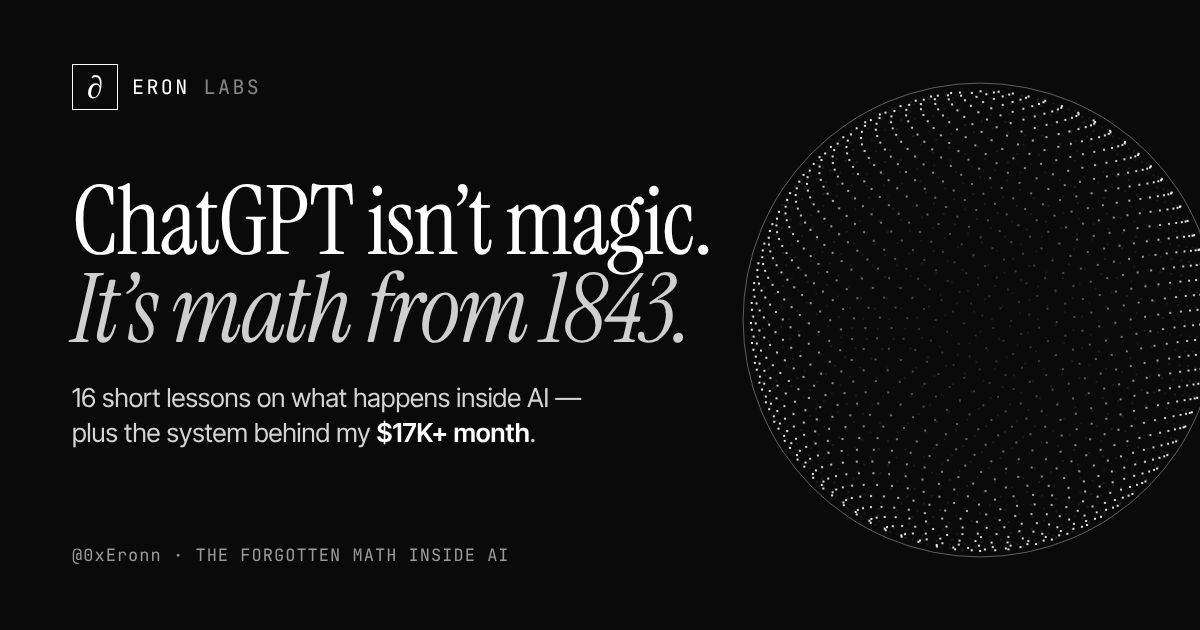
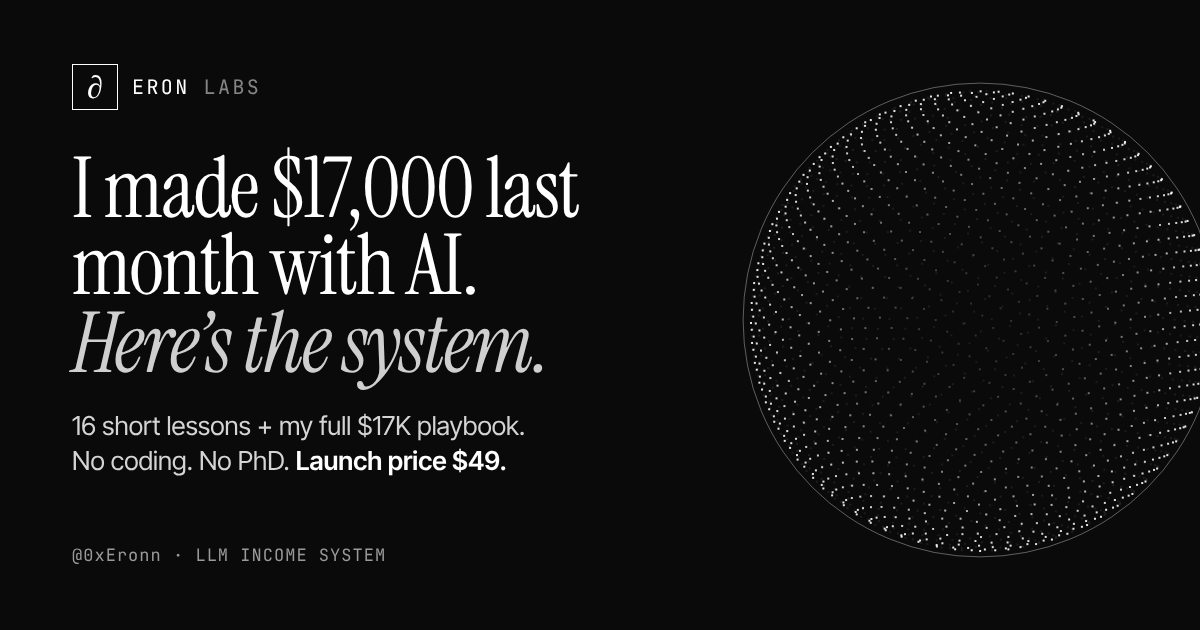
Conversion-first hero: plan picker above the fold, $17K headline, urgency, sticky buy bar
Claude-Session: https://claude.ai/code/session_01UxjCTe6HjTJ15kGubGNQJT

Changed region(s): [[0.0617, 0.2413, 0.5858, 0.754], [0.1542, 0.8746, 0.4317, 0.9048]]

diff --git a/index.html b/index.html
@@ -3,22 +3,22 @@
 <head>
 <meta charset="utf-8">
 <meta name="viewport" content="width=device-width, initial-scale=1">
-<title>Eron Labs — The Forgotten Math Inside AI</title>
+<title>Eron Labs — I made $17K last month with AI. Here’s the system.</title>
 <meta name="description" content="ChatGPT isn't magic. It's math from 1843. 16 short stories about what happens inside AI, plus the system that made me $17K+ last month.">
 <link rel="icon" href="/favicon.svg" type="image/svg+xml">
 <meta name="theme-color" content="#0A0A0A">
 <meta property="og:type" content="website">
 <meta property="og:site_name" content="Eron Labs">
-<meta property="og:title" content="Eron Labs — ChatGPT isn’t magic. It’s math from 1843.">
-<meta property="og:description" content="16 short lessons on what happens inside AI, plus the system behind my $17K+ month.">
+<meta property="og:title" content="I made $17,000 last month with AI. Here’s the exact system.">
+<meta property="og:description" content="16 short lessons + my full $17K playbook. No coding, no PhD. Launch price: $49.">
 <meta property="og:image" content="/og.png">
 <meta property="og:image:width" content="1200">
 <meta property="og:image:height" content="630">
 <meta name="twitter:card" content="summary_large_image">
 <meta name="twitter:site" content="@0xEronn">
 <meta name="twitter:creator" content="@0xEronn">
-<meta name="twitter:title" content="Eron Labs — ChatGPT isn’t magic. It’s math from 1843.">
-<meta name="twitter:description" content="16 short lessons on what happens inside AI, plus the system behind my $17K+ month.">
+<meta name="twitter:title" content="I made $17,000 last month with AI. Here’s the exact system.">
+<meta name="twitter:description" content="16 short lessons + my full $17K playbook. No coding, no PhD. Launch price: $49.">
 <meta name="twitter:image" content="/og.png">
 <link rel="preconnect" href="https://fonts.googleapis.com">
 <link rel="preconnect" href="https://fonts.gstatic.com" crossorigin>
@@ -299,10 +299,87 @@ section{position:relative}
 
 .wordmark{font-family:var(--serif);font-size:clamp(72px,17vw,260px);line-height:.8;letter-spacing:-.03em;text-align:center;padding:60px 0 20px;color:#1E1E1E;overflow:hidden;white-space:nowrap}
 footer{background:var(--ink);color:var(--mute-d);border-top:1px solid var(--line-d)}
+footer{padding-bottom:72px}
 footer .wrap{display:flex;justify-content:space-between;gap:16px;flex-wrap:wrap;padding-top:28px;padding-bottom:28px;font-size:14px}
 footer .wrap div{display:flex;gap:22px}
 footer a{color:var(--paper)}
 
+
+:root{--red:#E5484D}
+.red-t{color:var(--red)}
+.promo .tag{background:var(--red);color:#fff}
+.hero{padding:56px 0 0}
+.hero-grid{position:relative;z-index:2;display:grid;grid-template-columns:minmax(0,1.08fr) minmax(0,.92fr);gap:56px;align-items:start;padding-bottom:56px}
+.hero-copy{display:flex;flex-direction:column;gap:20px;align-items:flex-start}
+.hero h1{font-size:clamp(46px,5.6vw,80px);line-height:.98;max-width:none}
+.hero .lead{max-width:560px}
+.trust{list-style:none;margin:6px 0 0;padding:0;display:flex;flex-direction:column;gap:12px}
+.trust li{display:flex;gap:12px;align-items:flex-start;font-size:15px;line-height:1.5;color:#BDBDBD}
+.trust li b{color:#fff;font-weight:600}
+.trust .ic{width:26px;height:26px;flex:none;border:1px solid #333;border-radius:6px;display:grid;place-items:center;color:#fff}
+.trust .ic svg{width:14px;height:14px}
+.trust .ic.red{border-color:rgba(229,72,77,.5);background:rgba(229,72,77,.12);color:var(--red)}
+.stars{display:flex;gap:10px;align-items:center;font-size:14px;color:#BDBDBD;flex-wrap:wrap}
+.stars .st{color:#fff;letter-spacing:2px}
+.stars a{color:#fff;text-underline-offset:3px}
+.stars .sep{color:#555}
+.plancard{background:#fff;color:#0A0A0A;border-radius:18px;padding:24px;display:flex;flex-direction:column;gap:14px;box-shadow:0 40px 100px rgba(0,0,0,.55);position:sticky;top:88px}
+.pc-head{display:flex;justify-content:space-between;align-items:center;gap:12px;flex-wrap:wrap}
+.pc-head b{font-size:20px}
+.pill-red{font-family:var(--mono);font-size:11px;letter-spacing:.08em;color:var(--red);background:rgba(229,72,77,.1);border:1px solid rgba(229,72,77,.35);padding:5px 10px;border-radius:999px;white-space:nowrap}
+.pc-list{display:flex;flex-direction:column;gap:10px}
+.pc-opt{display:flex;gap:14px;align-items:center;width:100%;text-align:left;padding:14px 16px;border:1px solid #DADADA;border-radius:12px;background:#fff;cursor:pointer;transition:border-color .15s,background .15s}
+.pc-opt:hover{border-color:#0A0A0A}
+.pc-opt[aria-checked="true"]{border:2px solid #0A0A0A;padding:13px 15px;background:#F6F6F4}
+.pc-dot{width:18px;height:18px;border-radius:50%;border:2px solid #0A0A0A;flex:none;display:grid;place-items:center}
+.pc-opt[aria-checked="true"] .pc-dot:after{content:"";width:8px;height:8px;border-radius:50%;background:#0A0A0A}
+.pc-txt{flex:1;display:flex;flex-direction:column;gap:3px;min-width:0}
+.pc-txt b{font-size:16px;display:flex;gap:8px;align-items:center;flex-wrap:wrap}
+.pc-txt small{font-size:13px;color:#5C5C5C;line-height:1.4}
+.pc-badge{font-family:var(--mono);font-size:10.5px;letter-spacing:.08em;background:#0A0A0A;color:#fff;padding:2px 7px;border-radius:4px;font-weight:500}
+.pc-pr{display:flex;flex-direction:column;align-items:flex-end;flex:none;line-height:1.1}
+.pc-pr b{font-family:var(--serif);font-weight:400;font-size:32px}
+.pc-pr s{font-size:13px;color:#8A8A8A}
+.pc-cta{display:flex;justify-content:center;align-items:center;min-height:58px;background:#0A0A0A;color:#fff;text-decoration:none;font-weight:600;font-size:17px;border-radius:12px;transition:transform .15s}
+.pc-cta:hover{transform:translateY(-2px)}
+.pc-note{margin:0;text-align:center;font-size:13.5px;color:#5C5C5C}
+.pc-note b{color:#0A0A0A}
+.pc-promo{display:flex;justify-content:space-between;align-items:center;gap:10px;border:1px dashed #9A9A9A;border-radius:10px;padding:10px 14px;text-decoration:none;color:#5C5C5C;font-size:13px}
+.pc-promo:hover{border-color:#0A0A0A;color:#0A0A0A}
+.pc-promo b{font-family:var(--mono);color:#0A0A0A;letter-spacing:.08em}
+.pc-secure{display:flex;gap:8px;align-items:center;justify-content:center;font-size:12px;color:#7A7A7A}
+.wall .stage{margin-top:0}
+.sticky{position:fixed;left:0;right:0;bottom:0;z-index:60;background:rgba(10,10,10,.92);backdrop-filter:blur(12px);-webkit-backdrop-filter:blur(12px);color:#fff;border-top:1px solid #262626;transform:translateY(110%);transition:transform .3s ease}
+.sticky.on{transform:none}
+.sticky .wrap{display:flex;justify-content:space-between;align-items:center;gap:16px;padding-top:12px;padding-bottom:12px}
+.sk-l{display:flex;flex-direction:column;gap:2px;font-size:13.5px;color:#BDBDBD}
+.sk-l>b{color:#fff;font-size:15px}
+.sk-p{color:#fff;font-size:15px}
+.sk-btn{background:#fff;color:#0A0A0A;text-decoration:none;font-weight:600;padding:0 20px;min-height:46px;display:flex;align-items:center;border-radius:10px;flex:none}
+@media (max-width:980px){
+  .hero-grid{display:flex;flex-direction:column;align-items:stretch;gap:18px}
+  .hero-copy{display:contents}
+  .hero-copy>.chip{order:1;align-self:flex-start}
+  .hero-copy>.eyebrow{order:2}
+  .hero-copy>h1{order:3}
+  .hero-copy>.lead{order:4}
+  .plancard{order:5;position:static;margin:6px 0}
+  .hero-copy>.btns{display:none}
+  .hero-copy>.trust{order:6}
+  .hero-copy>.stars{order:7}
+  .promo .wrap>span:last-child{display:none}
+}
+@media (max-width:640px){
+  .hero{padding-top:24px}
+  .hero h1{font-size:40px}
+  .hero .lead{font-size:16px}
+  .hero-copy>.chip{display:none}
+  .plancard{padding:18px;border-radius:14px}
+  .pc-opt{padding:12px}
+  .pc-opt[aria-checked="true"]{padding:11px}
+  .pc-pr b{font-size:26px}
+  .sk-l>b{display:none}
+}
 /* reveal */
 .rv{opacity:0;transform:translateY(24px);transition:opacity .8s ease, transform .8s ease}
 .rv.in{opacity:1;transform:none}
@@ -340,8 +417,8 @@ footer a{color:var(--paper)}
 
 <div class="promo">
   <div class="wrap">
-    <span class="tag">ERON LABS · LAUNCH WEEK</span>
-    <span>Full Stack <b>−75%</b> + the $17K playbook · ends in <b class="js-cd">--d --h --m --s</b></span>
+    <span class="tag">LAUNCH PRICE · −75%</span>
+    <span>Full Stack + the $17K playbook for <b>$49</b> <s>$198</s> · price rises in <b class="js-cd red-t">--d --h --m --s</b></span>
     <span>Code <b>ERON10</b> = extra −10% for X followers</span>
   </div>
 </div>
@@ -358,7 +435,7 @@ footer a{color:var(--paper)}
     </div>
     <div class="cta">
       <span class="price mono" style="font-size:13px">From $19 <s style="color:#8A8A8A">$39</s></span>
-      <a class="btn btn-solid" href="#pricing" style="background:#fff;color:#0A0A0A;border-color:#fff">Get access</a>
+      <a class="btn btn-solid" href="#plans" style="background:#fff;color:#0A0A0A;border-color:#fff">Get access</a>
     </div>
   </div>
 </nav>
@@ -366,26 +443,36 @@ footer a{color:var(--paper)}
 <!-- HERO -->
 <section class="hero" id="top">
   <div class="grain"></div>
-  <div class="glow"></div>
-  <div class="wrap hero-top">
-    <a class="chip" href="https://x.com/0xEronn" target="_blank" rel="noopener">
-      <img class="js-avatar" alt="" width="26" height="26">
-      <span>By <b style="color:#fff">Eron</b> · @0xEronn · <b style="color:#fff">$17K+</b> earned last month</span>
-    </a>
-    <h1>ChatGPT isn’t magic.<br><i>It’s math from 1843.</i></h1>
-    <p class="lead">16 short stories that show you what actually happens inside AI — in plain English. Plus the exact system that made me <b style="color:#fff">$17,000+ last month</b> with this knowledge.</p>
-    <div class="btns">
-      <a class="btn btn-solid" href="#pricing" style="background:#fff;color:#0A0A0A;border-color:#fff">Get instant access
-        <svg width="18" height="18" viewBox="0 0 24 24" fill="none" stroke="currentColor" stroke-width="2" aria-hidden="true"><path d="M5 12h14M13 6l6 6-6 6"/></svg></a>
-      <a class="btn btn-ghost" href="#free">Try a lesson free</a>
+  <div class="wrap hero-grid">
+    <div class="hero-copy">
+      <a class="chip" href="https://x.com/0xEronn" target="_blank" rel="noopener">
+        <img class="js-avatar" alt="" width="26" height="26">
+        <span>By <b style="color:#fff">Eron</b> · @0xEronn · 11K followers</span>
+      </a>
+      <span class="eyebrow">LLM income system · no coding · no PhD</span>
+      <h1>I made $17,000 last month with AI. <i>Here’s the exact system.</i></h1>
+      <p class="lead">16 short lessons that take you from “I use ChatGPT” to “I get paid for AI” — plus my full $17K playbook: the content, the clients, the numbers. Start tonight.</p>
+      <div class="btns">
+        <a class="btn btn-solid" href="https://buy.stripe.com/00wbIUdP58QO7XOc1a7AI04" rel="noopener" style="background:#fff;color:#0A0A0A;border-color:#fff">Get instant access
+          <svg width="18" height="18" viewBox="0 0 24 24" fill="none" stroke="currentColor" stroke-width="2" aria-hidden="true"><path d="M5 12h14M13 6l6 6-6 6"/></svg></a>
+        <a class="btn btn-ghost" href="#how">See what’s inside</a>
+      </div>
+      <ul class="trust">
+        <li><span class="ic"><svg viewBox="0 0 24 24" fill="none" stroke="currentColor" stroke-width="2" aria-hidden="true"><path d="M4 12l5 5L20 6"/></svg></span><span><b>Money back, any time in 30 days.</b> One message, full refund, no questions.</span></li>
+        <li><span class="ic"><svg viewBox="0 0 24 24" fill="none" stroke="currentColor" stroke-width="2" aria-hidden="true"><path d="M20 11a8 8 0 1 0-2.3 5.7M20 4v7h-7"/></svg></span><span><b>Updated all the time.</b> New lessons land in your link for free.</span></li>
+        <li><span class="ic red"><svg viewBox="0 0 24 24" fill="none" stroke="currentColor" stroke-width="2" aria-hidden="true"><path d="M13 2L4 14h7l-1 8 9-12h-7z"/></svg></span><span><b>Launch price ends in <span class="js-cd">--</span>.</b> After launch, everything goes up.</span></li>
+      </ul>
+      <div class="stars"><span class="st">★★★★★</span><span>200+ clients</span><span class="sep">·</span><a href="#free">Try one lesson free ↓</a></div>
     </div>
-    <span class="fine">30-DAY REFUND · LIFETIME UPDATES · LAUNCH PRICE ENDS IN <span class="js-cd">--</span></span>
-  </div>
 
-  <div class="stage" id="stage" aria-label="Eron’s most-read posts on X, rotating">
-    <div class="floor"></div>
-    <div class="ring" id="ring"></div>
-    <div class="stage-hint">DRAG TO SPIN · CLICK A POST TO READ IT ON X</div>
+    <div class="plancard" id="plans">
+      <div class="pc-head"><b>Choose your plan</b><span class="pill-red">PRICE RISES IN <span class="js-cd-short">--</span></span></div>
+      <div class="pc-list" id="pcList" role="radiogroup" aria-label="Plans"></div>
+      <a class="pc-cta" id="pcCta" href="https://buy.stripe.com/00wbIUdP58QO7XOc1a7AI04" rel="noopener">Unlock everything — $49 →</a>
+      <p class="pc-note" id="pcNote">The 3 packs separately cost $62 and skip the playbook. <b>All of it: $49.</b></p>
+      <a class="pc-promo" id="pcPromo" href="https://buy.stripe.com/00wbIUdP58QO7XOc1a7AI04?prefilled_promo_code=ERON10" rel="noopener"><span>Follow me on X? Extra −10%, applied automatically</span><b>ERON10</b></a>
+      <div class="pc-secure"><svg width="14" height="14" viewBox="0 0 24 24" fill="none" stroke="currentColor" stroke-width="2" aria-hidden="true"><rect x="5" y="11" width="14" height="10" rx="2"/><path d="M8 11V7a4 4 0 0 1 8 0v4"/></svg>Secure checkout by Stripe · Card · Apple Pay · Google Pay</div>
+    </div>
   </div>
 
   <div class="stats">
@@ -404,9 +491,9 @@ footer a{color:var(--paper)}
     <div class="how-head rv">
       <div style="display:flex;flex-direction:column;gap:14px">
         <span class="eyebrow">What is this · in 30 seconds</span>
-        <h2 class="h2">A course that explains AI the way a good friend would. <i>With stories.</i></h2>
+        <h2 class="h2">From “I use ChatGPT” to <i>“I get paid for AI.”</i></h2>
       </div>
-      <p class="lead" style="color:#333">You don’t need to be technical. Each lesson is one discovery: who found it, where it hides inside ChatGPT, and how to see it with your own eyes. 25 minutes. Then it clicks.</p>
+      <p class="lead" style="color:#333">People pay for AI skills when you understand how the machine works — not when you collect prompts. Each lesson is one idea in 25 minutes: the story, where it lives inside ChatGPT, and how to use it. No coding, no PhD.</p>
     </div>
     <div class="steps">
       <div class="step rv"><div class="art"><canvas data-art="apple"></canvas></div><div class="body"><span class="n">01 — THE STORY</span><h3>A real person, a real discovery</h3><p>Hamilton carving an equation into a bridge. A 19-year-old beating Hilbert. You remember stories, not formulas.</p></div></div>
@@ -430,8 +517,14 @@ footer a{color:var(--paper)}
       <figcaption><b>Interest is real:</b> my X Analytics, last 30 days.</figcaption>
     </figure>
   </div>
+  <div class="stage" id="stage" aria-label="Eron’s most-read posts on X, rotating">
+    <div class="floor"></div>
+    <div class="ring" id="ring"></div>
+    <div class="stage-hint">DRAG TO SPIN · CLICK A POST TO READ IT ON X</div>
+  </div>
+
   <div class="fade-x"><div class="lane lane-a" id="laneA"></div></div>
-  <div class="fade-x" style="margin-top:12px"><div class="lane lane-b" id="laneB"></div></div>
+
 </section>
 
 <!-- TEASERS -->
@@ -653,6 +746,12 @@ Teach me in 5 short steps. Stop after each step and wait for my answer.
   <div class="formulas"><div class="lane" id="formulas"></div></div>
 </section>
 
+<div class="sticky" id="sticky" aria-hidden="true">
+  <div class="wrap">
+    <div class="sk-l"><b>Full Stack + $17K playbook</b><span><b class="sk-p">$49</b> <s>$198</s> · price rises in <span class="js-cd red-t">--</span></span></div>
+    <a class="sk-btn" href="#plans">Get access →</a>
+  </div>
+</div>
 <div class="dark wordmark" aria-hidden="true">ERON LABS</div>
 <footer>
   <div class="wrap">
@@ -863,9 +962,7 @@ Teach me in 5 short steps. Stop after each step and wait for my answer.
   if (!window.matchMedia('(prefers-reduced-motion: reduce)').matches) requestAnimationFrame(frame); else { frame = function () {}; slots.forEach(function (s, i) { s.style.transform = 'rotateY(' + i * 360 / N + 'deg) translateZ(' + radius() + 'px)'; }); }
 
   /* ---------- wall ---------- */
-  var a = POSTS.slice(0, 6), b = POSTS.slice(6);
-  $('laneA').innerHTML = a.concat(a).map(postHTML).join('');
-  $('laneB').innerHTML = b.concat(b).map(postHTML).join('');
+  $('laneA').innerHTML = POSTS.concat(POSTS).map(postHTML).join('');
 
   /* ---------- teasers ---------- */
   var TEASE = [
@@ -963,6 +1060,37 @@ Teach me in 5 short steps. Stop after each step and wait for my answer.
   $('faqList').addEventListener('click', function (e) { var b = e.target.closest('button[data-f]'); if (!b) return; var i = +b.dataset.f; open = open === i ? -1 : i; renderFaq(); });
   renderFaq();
 
+
+  /* ---------- hero plan picker ---------- */
+  var PLANS = [
+    { id: 'full', name: 'Full Stack', badge: 'BEST VALUE', d: 'All 16 lessons + the $17K playbook, notebooks, prompts, updates', p: 49, w: 198, url: 'https://buy.stripe.com/00wbIUdP58QO7XOc1a7AI04', cta: 'Unlock everything — $49 →' },
+    { id: 'p1', name: 'Pack 01 · How AI sees words', d: '5 lessons + notebooks + prompts', p: 19, w: 39, url: 'https://buy.stripe.com/5kQ3coh1h4AyfqgaX67AI05', cta: 'Get Pack 01 — $19 →' },
+    { id: 'p2', name: 'Pack 02 · How ChatGPT thinks', d: '6 lessons + notebooks + prompts', p: 24, w: 49, url: 'https://buy.stripe.com/6oU00c4ev5ECce4ghq7AI06', cta: 'Get Pack 02 — $24 →' },
+    { id: 'p3', name: 'Pack 03 · How AI is built & read', d: '5 lessons + notebooks + prompts', p: 19, w: 39, url: 'https://buy.stripe.com/aFabIU7qH1omba03uE7AI07', cta: 'Get Pack 03 — $19 →' }
+  ], pick = 'full';
+  function renderPlans() {
+    $('pcList').innerHTML = PLANS.map(function (pl) {
+      var on = pl.id === pick;
+      return '<button type="button" class="pc-opt" role="radio" aria-checked="' + on + '" data-plan="' + pl.id + '"><span class="pc-dot"></span><span class="pc-txt"><b>' + esc(pl.name) + (pl.badge ? ' <span class="pc-badge">' + pl.badge + '</span>' : '') + '</b><small>' + esc(pl.d) + '</small></span><span class="pc-pr"><b>$' + pl.p + '</b><s>$' + pl.w + '</s></span></button>';
+    }).join('');
+    var cur = PLANS.filter(function (pl) { return pl.id === pick; })[0];
+    $('pcCta').href = cur.url; $('pcCta').textContent = cur.cta;
+    $('pcPromo').href = cur.url + '?prefilled_promo_code=ERON10';
+    $('pcNote').innerHTML = pick === 'full' ? 'The 3 packs separately cost $62 and skip the playbook. <b>All of it: $49.</b>' : 'Only $' + (49 - cur.p) + ' more gets you <b>all 16 lessons + the $17K playbook.</b> <a href="#" data-up="1" style="color:#0A0A0A">Switch to Full Stack</a>';
+  }
+  $('pcList').addEventListener('click', function (e) { var b = e.target.closest('[data-plan]'); if (!b) return; pick = b.dataset.plan; renderPlans(); });
+  $('pcNote').addEventListener('click', function (e) { if (e.target.closest('[data-up]')) { e.preventDefault(); pick = 'full'; renderPlans(); } });
+  renderPlans();
+
+  /* ---------- sticky buy bar ---------- */
+  var sticky = $('sticky'), plansEl = $('plans'), pricingEl = $('pricing');
+  function stickyCheck() {
+    var a = plansEl.getBoundingClientRect(), b = pricingEl.getBoundingClientRect(), vh = window.innerHeight;
+    var show = a.bottom < 0 && !(b.top < vh && b.bottom > 0);
+    sticky.classList.toggle('on', show); sticky.setAttribute('aria-hidden', show ? 'false' : 'true');
+  }
+  window.addEventListener('scroll', stickyCheck, { passive: true }); stickyCheck();
+
   /* ---------- formulas ---------- */
   var F = ['A = UΣVᵀ', 'xₗ₊₁ = xₗ + F(xₗ)', 'i² = j² = k² = ijk = −1', 'H = −Σ p log p', 'softmax(QKᵀ/√d)·V', 'Vₙ = πⁿᐟ² / Γ(n/2 + 1)', 'F(s) = ∫ f(t) e^(−st) dt', 'u = Kₚe + Kᵢ∫e + K_d ė', 'ẋ = σ(y − x)'];
   $('formulas').innerHTML = F.concat(F).map(function (f) { return '<span>' + esc(f) + '</span>'; }).join('');
@@ -982,6 +1110,7 @@ Teach me in 5 short steps. Stop after each step and wait for my answer.
     var z = function (n) { return String(n).padStart(2, '0'); };
     var txt = z(d) + 'd ' + z(h) + 'h ' + z(m) + 'm ' + z(s) + 's';
     document.querySelectorAll('.js-cd').forEach(function (el) { el.textContent = txt; });
+    document.querySelectorAll('.js-cd-short').forEach(function (el) { el.textContent = d + 'D ' + z(h) + 'H ' + z(m) + 'M'; });
     $('cdD').textContent = z(d); $('cdH').textContent = z(h); $('cdM').textContent = z(m); $('cdS').textContent = z(s);
   }
   tick(); setInterval(tick, 1000);
